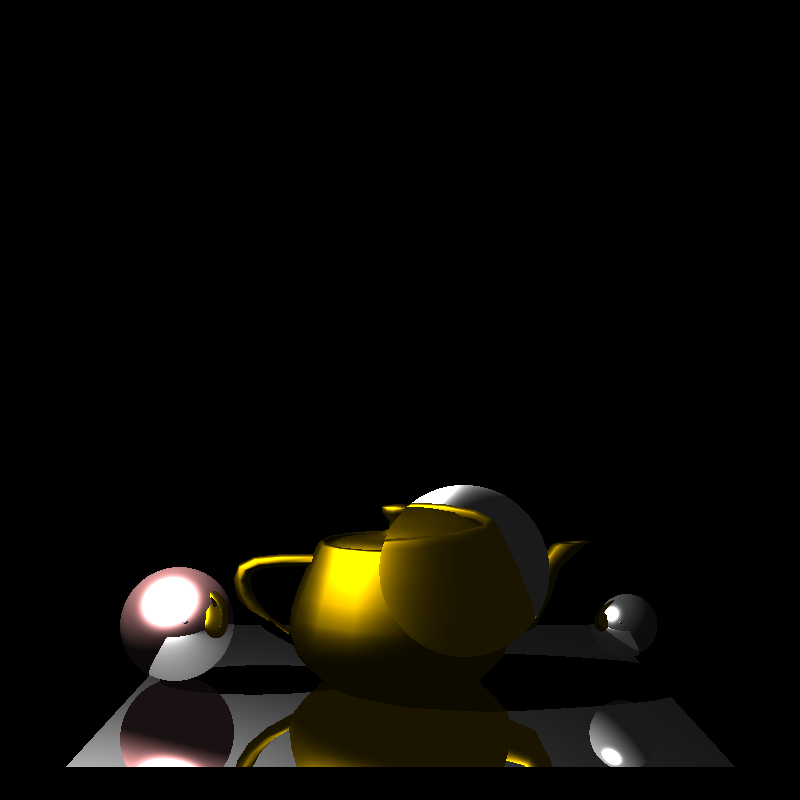
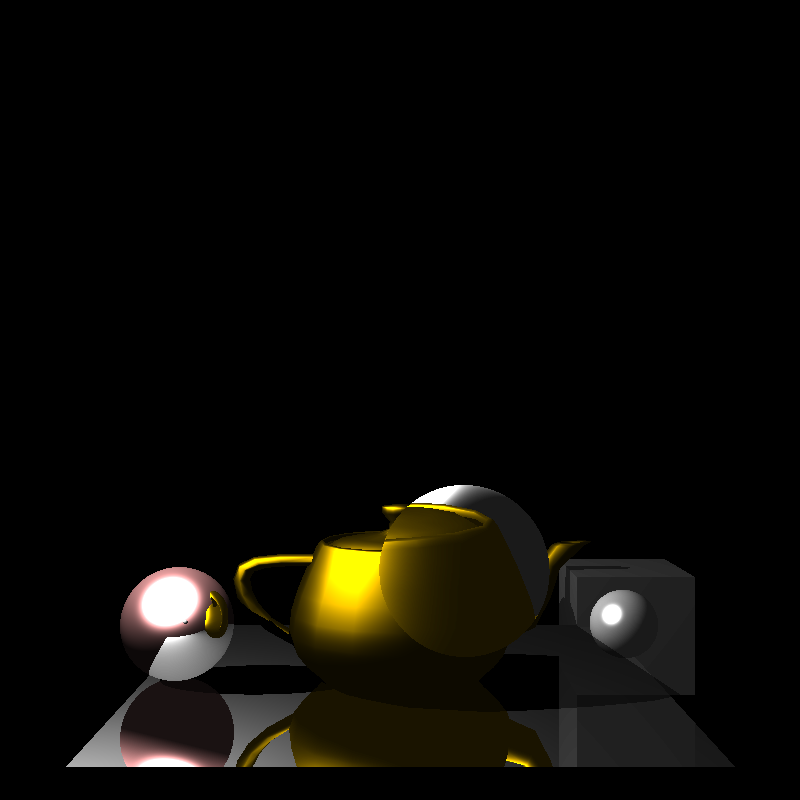
scene2-creation

Changed region(s): [[0.6875, 0.6875, 0.875, 0.875], [0.6875, 0.8438, 0.8125, 0.9688]]

diff --git a/src/aemn/raytracer/Raytracer.java b/src/aemn/raytracer/Raytracer.java
@@ -36,32 +36,50 @@ public class Raytracer {
 		System.out.println("AEMN -> Raytracer v" + version);
 		System.out.println(new Date());
 
-		Scene sceneRoot = new Scene();
+		Scene scene01 = new Scene();
 
-		/**************** Scene ****************/
+		/**************** Scene 01****************/
 		// Scene Configuration
-		sceneRoot.setCamera(new Camera(new Vector3D(0, 0, -8), 160, 160, 800, 800, 0f, 50f));
-		sceneRoot.addLight(new PointLight(new Vector3D(-3, 2.0, 0), new LambertMat(Color.WHITE, 500, 0, 0)));
+		scene01.setCamera(new Camera(new Vector3D(0, 0, -8), 160, 160, 800, 800, 0f, 50f));
+		scene01.addLight(new PointLight(new Vector3D(-3, 2.0, 0), new LambertMat(Color.WHITE, 500, 0, 0)));
 		// Scene OBJs
 
-		sceneRoot.addObject(OBJReader.GetPolygon("smallTeapot.obj", new Vector3D(0, -2.5, 1.5),
+		scene01.addObject(OBJReader.GetPolygon("smallTeapot.obj", new Vector3D(0, -2.5, 1.5),
 				new LambertMat(Color.ORANGE, 0, 5, 0.1f)));
-
-		sceneRoot.addObject(OBJReader.GetPolygon("panel.obj", new Vector3D(0, -2.5, 1.5),
+		scene01.addObject(OBJReader.GetPolygon("panel.obj", new Vector3D(0, -2.5, 1.5),
 				new ReflectiveMat(Color.WHITE, 0, 5, 0.1f)));
+		scene01.addObject(OBJReader.GetPolygon("Cube.obj", new Vector3D(2, -2.5, 1.5),
+				new RefractiveMat(Color.WHITE, 0, 5, 0.1f, 1.5)));
 		// Scene Objects
-		sceneRoot.addObject(
+		scene01.addObject(
 				new Sphere(new Vector3D(-2.0, -2.0, 1.5), 0.5, new ReflectiveMat(Color.PINK, 0, 15, 0.5f)));
-		sceneRoot.addObject(
+		scene01.addObject(
 				new Sphere(new Vector3D(2.0, -2.0, 1.5), 0.3, new ReflectiveMat(Color.WHITE, 0, 50, 0.5f)));
-
-		sceneRoot.addObject(
+		scene01.addObject(
 				new Sphere(new Vector3D(0.3, -.8, -3), 0.4, new RefractiveMat(Color.WHITE, 0, 5, 0.5f, 1.5)));
 
 		/****************** SCENE FINISH ****************/
+		/**************** Scene 01****************/
+		// Scene Configuration
+		Scene scene02 = new Scene();
+		scene02.setCamera(new Camera(new Vector3D(0, 0, -8), 160, 160, 800, 800, 0f, 50f));
+		scene02.addLight(new PointLight(new Vector3D(0, 1.0, 0), new LambertMat(Color.WHITE, 400, 0, 0)));
+		scene02.addLight(new PointLight(new Vector3D(0, 1.0, 4.5), new LambertMat(Color.WHITE, 400, 0, 0)));
+		// Scene OBJs
+		scene02.addObject(OBJReader.GetPolygon("panel.obj", new Vector3D(0, -2.5, 1),
+				new LambertMat(Color.WHITE, 0, 5, 0.1f)));
+		scene02.addObject(OBJReader.GetPolygon("panel.obj", new Vector3D(0, -2.5, 5.5),
+				new LambertMat(Color.WHITE, 0, 5, 0.1f)));
+		scene02.addObject(OBJReader.GetPolygon("Cube.obj", new Vector3D(-1.5, -2.5, 2),
+				new ReflectiveMat(Color.YELLOW, 0, 5, 0.1f)));
+		scene02.addObject(OBJReader.GetPolygon("Cube.obj", new Vector3D(1.5, -2.5, 2),
+				new ReflectiveMat(Color.YELLOW, 0, 5, 0.1f)));
+		// Scene Objects
 
-		BufferedImage image = raytrace(sceneRoot);
-		File outputImage = new File("image.png");
+		/****************** SCENE FINISH ****************/
+
+		BufferedImage image = raytrace(scene02);
+		File outputImage = new File("scene02.png");
 		try {
 			ImageIO.write(image, "png", outputImage);
 		} catch (IOException ex) {
